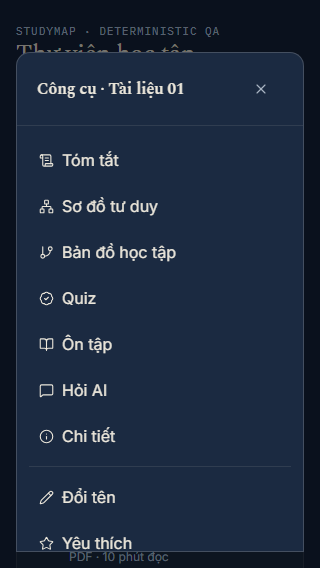
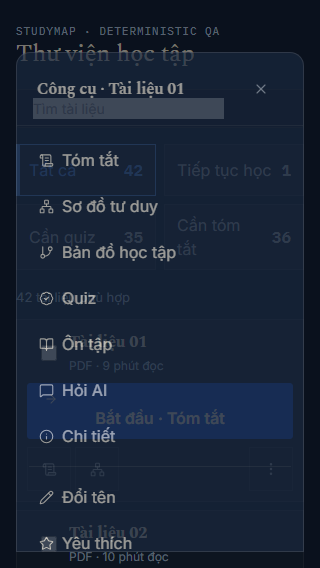
fix(library): strengthen matrix focus visibility

diff --git a/FE/src/components/study/libraryActionMatrix.css b/FE/src/components/study/libraryActionMatrix.css
@@ -1,6 +1,9 @@
 .library-task-views { display:grid; grid-template-columns:repeat(4,minmax(0,1fr)); gap:8px; margin-bottom:18px; }
 .library-task-view { min-height:52px; padding:8px 12px; display:flex; align-items:center; justify-content:space-between; gap:8px; border:1px solid var(--border-color); border-radius:var(--radius-control); background:var(--bg-card); color:var(--text-secondary); text-align:left; }
 .library-task-view[aria-pressed="true"] { border-color:var(--accent); color:var(--accent); box-shadow:inset 3px 0 0 var(--accent); }
+.library-task-view:focus-visible,
+.study-document-row__quick button:focus-visible,
+.study-document-row__tools>button:focus-visible { outline:2px solid var(--accent); outline-offset:2px; }
 .library-task-view strong { font-family:var(--font-mono); font-variant-numeric:tabular-nums; }
 .study-document-matrix { display:flex; flex-direction:column; gap:8px; }
 .study-document-row { position:relative; display:grid; grid-template-columns:34px minmax(180px,1.45fr) minmax(150px,1fr) minmax(180px,auto) 88px 82px; align-items:center; gap:12px; min-height:78px; padding:12px; border:1px solid var(--border-color); border-radius:var(--radius-card); background:var(--bg-card); }
@@ -9,7 +12,7 @@
 .study-document-row__select { min-width:44px; min-height:44px; display:grid; place-items:center; cursor:pointer; }
 .study-document-row__select input { width:16px; height:16px; accent-color:var(--accent); }
 .study-document-row__identity,.study-document-row__progress { min-width:0; display:flex; flex-direction:column; gap:3px; }
-.study-document-row__identity strong { color:var(--text-primary); font-family:var(--font-display); display:-webkit-box; -webkit-line-clamp:2; -webkit-box-orient:vertical; overflow:hidden; }
+.study-document-row__identity strong { color:var(--text-primary); font-family:var(--font-display); display:-webkit-box; -webkit-line-clamp:2; -webkit-box-orient:vertical; overflow:hidden; overflow-wrap:anywhere; }
 .study-document-row__identity span,.study-document-row__progress span { color:var(--text-muted); font-size:12px; }
 .study-document-row__primary { min-height:44px; justify-content:center; }
 .study-document-row__quick { display:flex; gap:4px; }
@@ -21,7 +24,7 @@
 .document-tools__group { display:grid; gap:2px; }
 .document-tools__group+ .document-tools__group { padding-top:8px; border-top:1px solid var(--border-color); }
 .document-tools__group button { min-height:40px; padding:8px 10px; display:flex; align-items:center; gap:8px; border-radius:var(--radius-control); color:var(--text-primary); text-align:left; }
-.document-tools__group button:hover,.document-tools__group button:focus-visible { background:var(--bg-hover); }
+.document-tools__group button:hover,.document-tools__group button:focus { background:var(--bg-hover); outline:2px solid var(--accent); outline-offset:-2px; }
 .document-tools--sheet { padding:12px; }
 .document-tools--sheet .document-tools__group button { min-height:44px; }
 .document-tools-sheet .icon-btn { width:44px; height:44px; }

diff --git a/FE/e2e-fixture/round6-library-action-matrix.spec.js b/FE/e2e-fixture/round6-library-action-matrix.spec.js
@@ -147,3 +147,27 @@ test("320px tools sheet is contained, scrollable, and uses 44px targets", async 
   expect(metrics.scrollable).toBe(true);
   await page.screenshot({ path: path.join(evidenceDir, "library-mobile-320-tools-dark.png"), fullPage: false });
 });
+
+test("dark-mode keyboard and programmatic focus remain visibly tokenized", async ({ page }) => {
+  await page.setViewportSize({ width: 1440, height: 900 });
+  await page.goto("/round6-library-qa.html?theme=dark");
+  await page.locator('input[aria-label="Tìm trong thư viện QA"]').focus();
+  await page.keyboard.press("Tab");
+  const taskFocus = await page.locator('[data-task-view="all"]').evaluate((node) => {
+    const style = getComputedStyle(node);
+    return [style.outlineStyle, style.outlineWidth];
+  });
+  expect(taskFocus).toEqual(["solid", "2px"]);
+
+  const trigger = page.locator("[data-document-row]").first().locator("[data-tools-trigger]");
+  await trigger.click();
+  const firstMenuItem = page.locator(".document-tools--desktop [data-learning-tool]").first();
+  await expect(firstMenuItem).toBeFocused();
+  const menuFocus = await firstMenuItem.evaluate((node) => {
+    const style = getComputedStyle(node);
+    return [style.outlineStyle, style.outlineWidth, style.backgroundColor];
+  });
+  expect(menuFocus[0]).toBe("solid");
+  expect(menuFocus[1]).toBe("2px");
+  expect(menuFocus[2]).not.toBe("rgba(0, 0, 0, 0)");
+});

diff --git a/.playbook/known-issues.md b/.playbook/known-issues.md
@@ -1,5 +1,21 @@
 # Known Issues
 
+## Library matrix controls lost visible focus in dark mode (fixed 2026-10-28)
+
+**Symptom:** Agy's browser audit measured the task tabs, row quick actions, and
+More trigger using only Chromium's 1px dark user-agent outline against a navy
+surface. The first desktop menu item was focused programmatically but had no
+visible outline or background state.
+
+**Root cause:** new matrix controls did not inherit the established button
+classes that own the tokenized focus ring, and the menu styled only
+`:focus-visible` although its first item is reached through `.focus()`.
+
+**Fix and prevention:** the matrix controls now declare the shared 2px accent
+focus ring; menu items style `:focus` with an inset accent outline and hover
+surface. Chromium asserts both keyboard task-tab focus and programmatic menu
+focus in dark mode. Long titles also permit emergency wrapping at tablet width.
+
 ## Library mobile tools sheet trapped focus but did not inert its page root (fixed 2026-10-28)
 
 **Symptom:** keyboard Tab stayed inside the portalled sheet, but background

diff --git a/docs/ui-ux-v4-design/round6-qa-evidence/README.md b/docs/ui-ux-v4-design/round6-qa-evidence/README.md
@@ -15,9 +15,10 @@ dispatcher, persistence, deletion, and exact bulk request bodies.
 - `doc-1` is excluded from both missing queues; `doc-2` is included in both.
 - Desktop density: 215 visible interactive controls, 210 inside rows, five per
   row, first-row height 82px. See `matrix-density-metrics.json`.
-- Browser result: 18/18 Playwright cases passed after correcting the sheet close
-  target from 32px to 44px. Every listed viewport/theme measured zero document
-  overflow, zero row overflow, zero clipped controls, and mobile targets >=44px.
+- Browser result: 19/19 Playwright cases passed after correcting the sheet close
+  target from 32px to 44px and tokenizing dark-mode focus. Every listed
+  viewport/theme measured zero document overflow, zero row overflow, zero
+  clipped controls, and mobile targets >=44px.
 - Runtime: local Chromium supplied by Playwright; Vite fixture server; no backend
   and no external network requests.
 

diff --git a/.playbook/lessons-learned.md b/.playbook/lessons-learned.md
@@ -1,5 +1,13 @@
 # Lessons Learned
 
+## Programmatic focus needs a visible style independent of input modality (2026-10-28)
+
+`:focus-visible` is ideal for ordinary keyboard navigation, but a menu that
+calls `.focus()` on open cannot assume the browser will classify that focus as
+keyboard-originated. Assert computed focus styling in a real browser and give
+programmatically focused menu items an explicit `:focus` treatment; otherwise a
+correct focus handoff can remain visually invisible.
+
 ## A focus trap does not make the background inert (2026-10-28)
 
 Portal placement, a scrim, `aria-modal`, and cycling Tab focus each cover a
